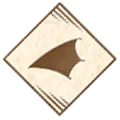
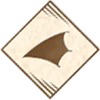
added grid

Changed region(s): [[0.0, 0.0, 1.0, 1.0], [0.21, 0.3, 0.75, 0.69]]

diff --git a/window.py b/window.py
@@ -7,14 +7,20 @@ class Window:
         self.__canvas.pack(fill=tk.BOTH, expand=1)
         self.__root.title("Carcassone expansion randomizer")
         self.__images = []
+        self.__grid = [Point(135, 60), Point(285, 60), Point(60, 135), Point(210, 135), Point(360, 135)]
 
     def loop(self):
         self.__root.mainloop()
 
-    def draw_image(self, x, y, file):
+    def draw_image(self, i, file):
         print(f"drawing {file}")
         img = tk.PhotoImage(file=file)
         self.__images.append(img)
-        self.__canvas.create_image(x, y, image=img)
+        self.__canvas.create_image(self.__grid[i].x, self.__grid[i].y, image=img)     
+
+class Point:
+    def __init__(self, x, y):
+        self.x = x
+        self.y = y
 
 

diff --git a/settings.py b/settings.py
@@ -3,7 +3,7 @@ class Settings:
         self.src_exp = "src/expansions.csv"
         self.src_dir_img = "src/img"
         self.src_exp_encoding ="utf-8-sig"
-        self.win_width = 800
-        self.win_heigth = 600
+        self.win_width = 420
+        self.win_heigth = 210
         self.exp_elect_nr = 5
     

diff --git a/randomizer.py b/randomizer.py
@@ -48,4 +48,4 @@ class Randomizer:
     def draw_images(self):
         print("Drawing_images:")
         for i in range(len(self.elect_list)):
-            self.win.draw_image(100 + 120 * i, 100, self.elect_list[i].img)
+            self.win.draw_image(i, self.elect_list[i].img)
